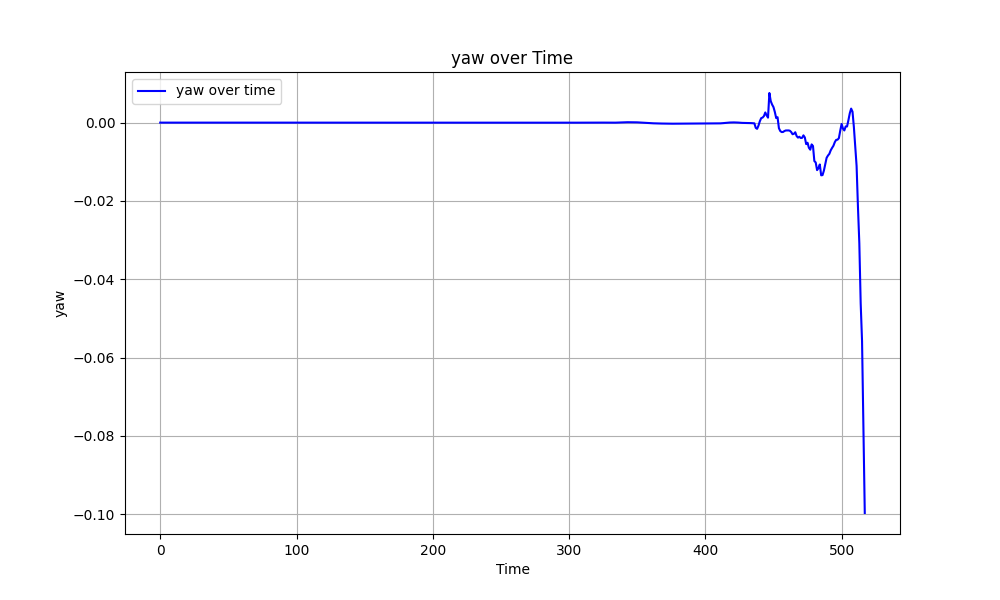
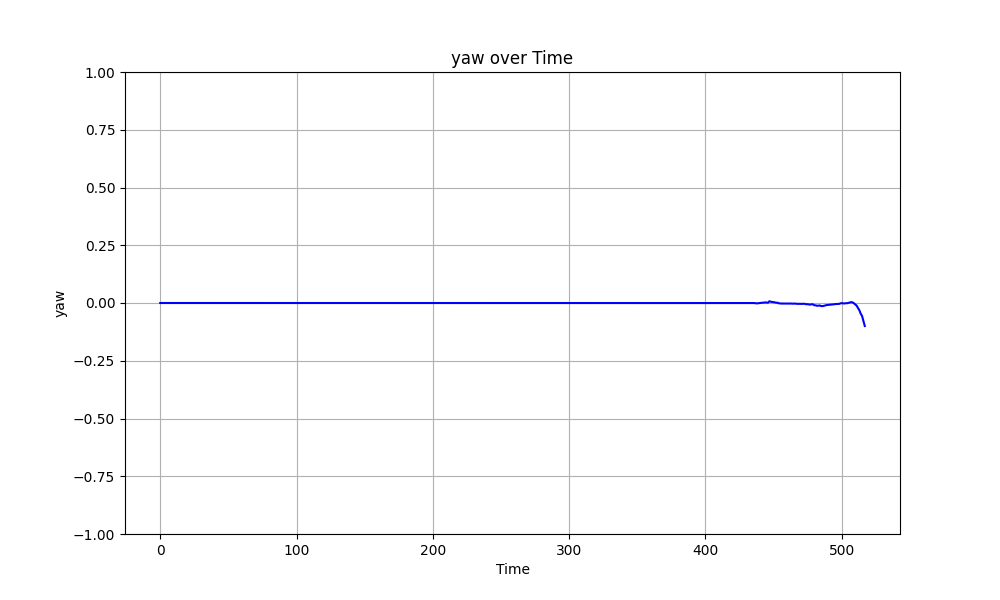
add limits to graph plots

diff --git a/src/plot_graphs.py b/src/plot_graphs.py
@@ -4,6 +4,15 @@ import argparse
 import os
 import glob
 
+limits = {
+    'x': (-3, 3),
+    'y': (-3, 3),
+    'z': (0, 6),
+    'roll': (-1, 1),
+    'pitch': (-1, 1),
+    'yaw': (-1, 1)
+    }
+
 
 # Function to read the CSV file and plot each column over time
 def plot_columns_over_time(input_file, output_dir):
@@ -13,19 +22,19 @@ def plot_columns_over_time(input_file, output_dir):
     # Ensure output directory exists
     os.makedirs(output_dir, exist_ok=True)
 
-    # List of columns to plot
-    columns = ['x', 'y', 'z', 'roll', 'pitch', 'yaw']
-
     # Plot each column over time
-    for column in columns:
+    for column, (min_limit, max_limit) in limits.items():
         plt.figure(figsize=(10, 6))
         plt.plot(data['timestep'], data[column], label=f'{column} over time', color='blue')
+
+        actual_min = min(data[column].min(), min_limit)
+        actual_max = max(data[column].max(), max_limit)
+        plt.ylim(actual_min, actual_max)
 
         # Add labels and title
         plt.xlabel('Time')
         plt.ylabel(column)
         plt.title(f'{column} over Time')
-        plt.legend()
         plt.grid(True)
 
         # Save the plot
